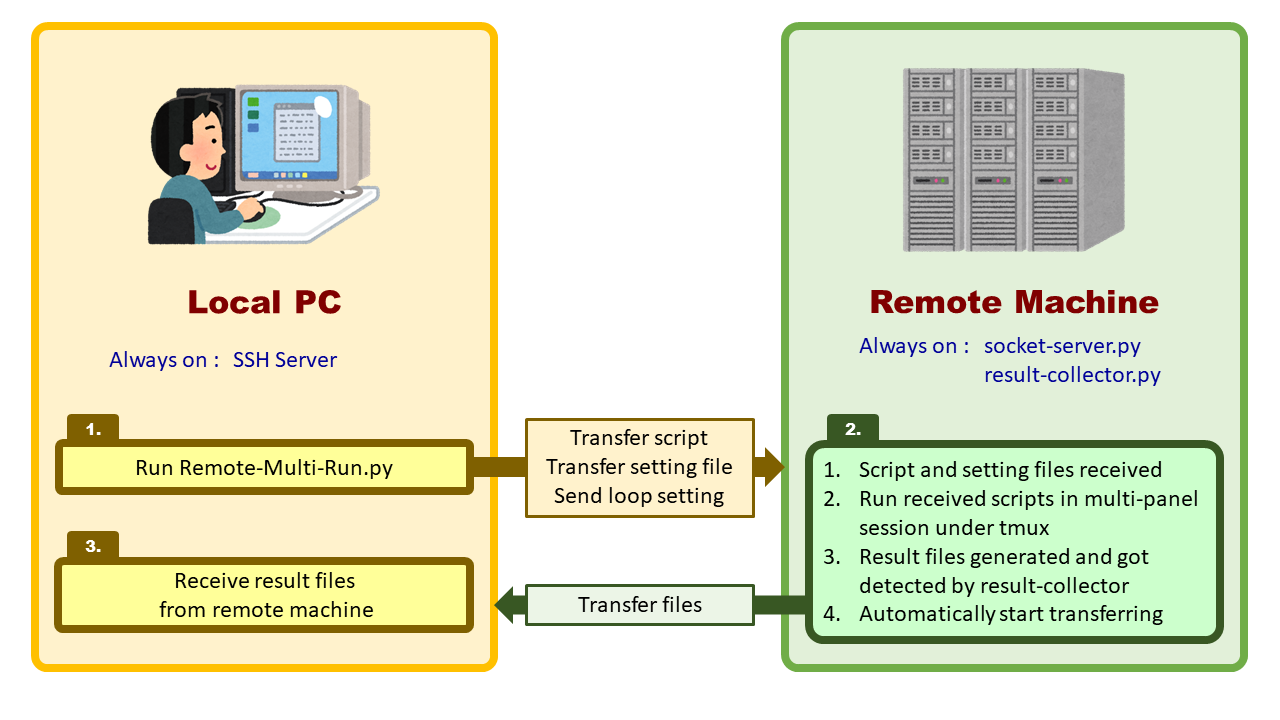
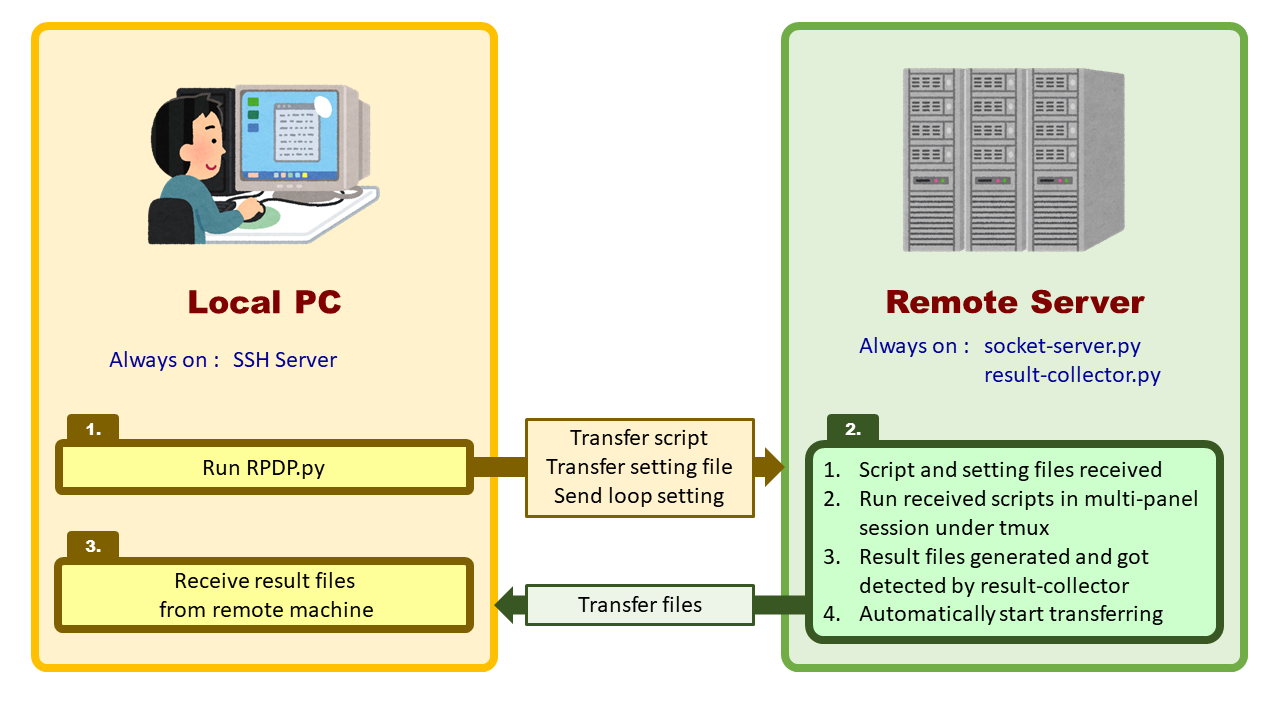
Tiny modification on filename and words in readme

Changed region(s): [[0.6562, 0.3972, 0.9062, 0.4583], [0.0938, 0.6417, 0.3125, 0.6722]]

diff --git a/Local/RPDP.py b/Local/RPDP.py
@@ -1,0 +1,104 @@
+##### Module import
+import argparse
+import os
+import socket
+
+##### Common settings
+buffer_size = 4096 # send 4096 bytes each time step
+c_encode = 'utf-8' # encode of text
+
+##### Arguement default value
+default_process = 1
+default_loop = 10
+default_port  = 7788
+# Depend on machine
+default_addr  = '192.168.1.1'
+
+##### Arguement parser
+arg_parser = argparse.ArgumentParser() 
+arg_parser.add_argument('script', type=str, help='python script file.')
+arg_parser.add_argument('config', type=str, help='config file.')
+arg_parser.add_argument('-r', '--process', type=int, default=default_process, help='number of seperated processes (panels).')
+arg_parser.add_argument('-l', '--loop', type=int, default=default_loop, help='number of loops in each panel.')
+arg_parser.add_argument('-a', '--addr', type=str, default=default_addr, help='address of remote machine.') 
+arg_parser.add_argument('-p', '--port', type=int, default=default_port, help='listening port of remote machine.')
+arg_parser.add_argument('-cs', '--copyscript', action='store_true', help='would copy script file from local if applied.')
+arg_parser.add_argument('-cc', '--copyconfig', action='store_true', help='would copy config file from local if applied.')
+
+##### Arguement data
+raw_path_py  = arg_parser.parse_args().script
+raw_path_cfg = arg_parser.parse_args().config
+num_process  = arg_parser.parse_args().process
+num_loop     = arg_parser.parse_args().loop
+s_address    = arg_parser.parse_args().addr
+s_port       = arg_parser.parse_args().port
+copyscript   = arg_parser.parse_args().copyscript
+copyconfig   = arg_parser.parse_args().copyconfig
+# Extra
+fn_py     = os.path.basename(raw_path_py)
+fn_cfg    = os.path.basename(raw_path_cfg)
+fsize_py  = os.path.getsize(raw_path_py) if copyscript else 0
+fsize_cfg = os.path.getsize(raw_path_cfg) if copyconfig else 0
+copyscript_indi = 1 if copyscript else 0
+copyconfig_indi = 1 if copyconfig else 0
+
+##### Socket
+print( '[*] Socket generation starts.')
+c_socket = socket.socket(socket.AF_INET, socket.SOCK_STREAM)
+c_socket.connect((s_address, s_port))
+print(f'[+] Socket connected {s_address}:{s_port}')
+
+##### Preceding messege
+# Prepare messege
+print(f'[+] Preceding messege')
+c_msg_1 = f'{fn_py}\x00{fn_cfg}\x00{num_process}\x00{num_loop}\x00{copyscript_indi}\x00{copyconfig_indi}\x00{fsize_py}\x00{fsize_cfg}\x00'
+print(f'    [-] Messege: {c_msg_1}')
+c_msg_1_b = c_msg_1.encode(c_encode)
+# Send messege
+c_socket.sendall(c_msg_1_b)
+print( '    [-] Messege send.')
+# Receive echo from server
+s_echo_1 = c_socket.recv(buffer_size).decode(c_encode)
+print(f'    [-] Server echo: {s_echo_1}')
+
+##### Script file
+print(f'[+] Sending script file')
+# Judge if send script file and determine messege content
+print(f'    [-] Copy script: {copyscript}')
+if copyscript:
+    c_msg_2_b = open(raw_path_py, "rb").read()
+else:
+    c_msg_2_b = b'empty\x00'
+# Send messege
+c_socket.sendall(c_msg_2_b)
+print( '    [-] Messege send.')
+# Receive echo from server
+s_echo_2 = c_socket.recv(buffer_size).decode(c_encode)
+print(f'    [-] Server echo: {s_echo_2}')
+
+##### Config file
+print(f'[+] Sending config file')
+# Judge if send script file and determine messege content
+print(f'    [-] Copy config: {copyconfig}')
+if copyconfig:
+    c_msg_3_b = open(raw_path_cfg, "rb").read()
+else:
+    c_msg_3_b = b'empty\x00'
+# Send messege
+c_socket.sendall(c_msg_3_b)
+print( '    [-] Messege send.')
+# Receive echo from server
+s_echo_3 = c_socket.recv(buffer_size).decode(c_encode)
+print(f'    [-] Server echo: {s_echo_3}')
+
+##### Flag for start script branching on server side
+print(f'[+] Script brancher')
+c_msg_4_b = b'Now you can start script branching.'
+c_socket.sendall(c_msg_4_b)
+# Receive echo from server
+s_echo_4 = c_socket.recv(buffer_size).decode(c_encode)
+print(f'    [-] Server echo: {s_echo_4}')
+
+##### Endgame
+c_socket.close()
+print('[*] Socket done.')

diff --git a/README.md b/README.md
@@ -1,17 +1,17 @@
-# Remote-Multi-Run
+# Remote-Parallel-Data-Processing
 
-This set of scripts can help you transferring python script and setting file to remote machine and generate multiple runs in individual windows easily. Result files of executed script will be automatically returned to local PC.
+This set of scripts can help you transferring python script and setting file to remote machine and generate multiple runs in individual windows easily. Outputted files will be automatically returned to local PC.
 
 # How to use
 
 ## 0. System Requirements
-|  | Local PC| Remote Machine |
+|  | Local PC| Remote Server |
 | :-: | - | - |
 | Software | ssh server | tmux<br/>scp |
 | Python<br/>module | socket<br/>argparse | socket<br/>argparse<br/>configparser<br/>subprocess<br/>watchdog |
 
 ## 1. Enviornment setup
-Turn on SSH server function on local PC in order to receive result files from remote machine. Put files in "Local" folder on local PC and files in "Remote" folder on remote machine. Run socket-server.py and result-collector.py on remote machine with command below. Remember to edit machine_info.ini to meet your working enviornment, such as IP, port, paths of some folders.
+Turn on SSH server function on local PC in order to receive outputted files from remote server. Put files in "Local" folder on local PC and files in "Remote" folder on remote server. Run socket-server.py and result-collector.py on remote server with command below. Remember to edit machine_info.ini to meet your working enviornment, such as IP, port, paths of some folders.
 
 ```
 $ python socket-server.py machine_info.ini
@@ -22,11 +22,11 @@ $ python result-collector.py machine_info.ini
 - Remember to open firewall port for ssh and socket service.
 - In order to avoid entering password every time new file being transfered, creating public and private key pair is recommanded. You can refer to [this article](https://alvinalexander.com/linux-unix/how-use-scp-without-password-backups-copy/).
 
-## 2. Run Remote-Multi-Run.py
+## 2. Run RPDP.py
 
-1. Run Remote-Multi-Run.py on local PC with options below:
+1. Run RPDP.py on local PC with options below:
     ```
-    $ python script-spreader.py <path of script file> <path of config file>
+    $ python RPDP.py <path of script file> <path of config file>
     ```
     options:
 
@@ -38,15 +38,15 @@ $ python result-collector.py machine_info.ini
     | -p | --port | 7788 | Port for accessing remote machine. |
     | -cs | --copyscript | - | Would copy script file from local if applied |
     | -cc | --copyconfig | - | Would copy config file from local if applied |
-2. Remote machine starts working on generating multi-window session and bash script automatically right after messeges and files received.
+2. Remote server starts working on generating multi-window sessions and shell script automatically right after messeges and files received.
 3. Remote machine starts running received script file.
-4. Result files will be transfered to local PC automatically due to the monitoring of result-collector.py.
+4. Outputted files will be transfered to local PC automatically due to the monitoring of result-collector.py.
 
 ### Notice that:
-- In current version result-collector.py only supports monitoring folder generation. It detects folder generated in specified output directory and transfers all the files contained in the folder recursively. This is due to the private usage of the author and will be updated to file-generation compatible in the future.
+- In current version result-collector.py only supports monitoring folder generation. It detects folder generated in output directory and transfers all the files contained in the folder recursively. This is due to the private usage of the author and will be updated to file-generation compatible in the future.
 - Files won't be transfered right after generated. We set a buffer time (60 sec.) for waiting file generation complete.
 
-![workflow of Remote-Multi-Run](ss_img01.png)
+![workflow of RPDP](ss_img01.png)
 
 # Screenshots
 
